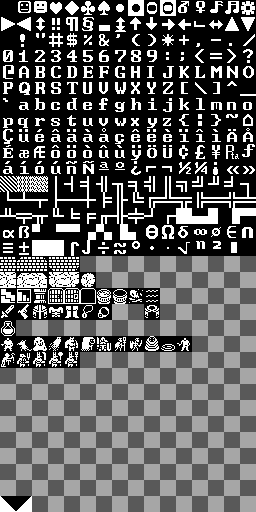
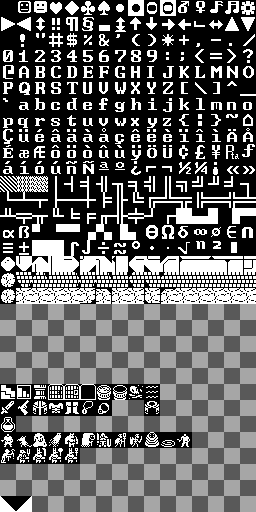
Added support for walls having different symbols depending on surrounding.

Changed region(s): [[0.0, 0.5, 1.0, 0.7188], [0.0, 0.75, 0.75, 0.9062]]

diff --git a/terrain.py b/terrain.py
@@ -1,4 +1,6 @@
 import colors
+import geometry as geo
+import direction
 import symbol
 import gamepiece
 
@@ -18,19 +20,34 @@ class Terrain(gamepiece.GamePiece):
         return True
 
 
-class Wall(Terrain):
+class Wall (Terrain):
     def __init__(self):
         super(Wall, self).__init__()
         self._color_fg = colors.WALL_FG
-        self._color_bg = colors.WALL_BG
+        self._color_bg = colors.DB_LOULOU
         self._symbol = symbol.DUNGEON_WALLS_ROW
 
     @staticmethod
     def is_solid():
         return True
 
+    @property
+    def symbol(self):
+        neighbours_mask = 0
+        for index, neighbour in enumerate(self._get_neighbour_terrains()):
+            if(isinstance(neighbour, Wall) or isinstance(neighbour, Door)):
+                neighbours_mask |= 2 ** index
+        return self._symbol + neighbours_mask
+
     def is_transparent(self):
         return False
+
+    def _get_neighbour_terrains(self):
+        tiles =\
+            [self.dungeon_level.
+             get_tile_or_unknown(geo.add_2d(offset, self.position))
+             for offset in direction.AXIS_DIRECTIONS]
+        return [tile.get_terrain() for tile in tiles]
 
 
 class Floor(Terrain):

diff --git a/symbol.py b/symbol.py
@@ -1,13 +1,16 @@
 ROW_LENGTH = 16
-CUSTOM_PART = 16 * ROW_LENGTH
+WALL_PART = 16 * ROW_LENGTH
+FEATURE_PART = WALL_PART + 8 * ROW_LENGTH
 
-DUNGEON_WALLS_ROW = CUSTOM_PART
-CAVE_WALLS_ROW = CUSTOM_PART + ROW_LENGTH * 1
-DUNGEON_FEATURE_ROW = CUSTOM_PART + ROW_LENGTH * 2
-EQUIPMENT_ITEMS_ROW = CUSTOM_PART + ROW_LENGTH * 3
-USABLE_ITEMS_ROW = CUSTOM_PART + ROW_LENGTH * 4
-DUNGEON_ENTITIES_ROW = CUSTOM_PART + ROW_LENGTH * 5
-TOMB_ENTITIES_ROW = CUSTOM_PART + ROW_LENGTH * 6
+TEST_WALLS_ROW = WALL_PART
+DUNGEON_WALLS_ROW = WALL_PART + ROW_LENGTH * 1
+CAVE_WALLS_ROW = WALL_PART + ROW_LENGTH * 2
+
+DUNGEON_FEATURE_ROW = FEATURE_PART
+EQUIPMENT_ITEMS_ROW = FEATURE_PART + ROW_LENGTH * 1
+USABLE_ITEMS_ROW = FEATURE_PART + ROW_LENGTH * 2
+DUNGEON_ENTITIES_ROW = FEATURE_PART + ROW_LENGTH * 3
+TOMB_ENTITIES_ROW = FEATURE_PART + ROW_LENGTH * 4
 
 CENTER_DOT = 15 * ROW_LENGTH + 10
 

diff --git a/direction.py b/direction.py
@@ -2,8 +2,8 @@ import rng
 
 CENTER = (0, 0)
 
-UP = (0, 1)
-DOWN = (0, -1)
+UP = (0, -1)
+DOWN = (0, 1)
 RIGHT = (1, 0)
 LEFT = (-1, 0)
 
@@ -22,9 +22,9 @@ DIRECTIONS = [UP,
               UP_LEFT]
 
 AXIS_DIRECTIONS = [UP,
-                   RIGHT,
                    DOWN,
-                   LEFT]
+                   LEFT,
+                   RIGHT]
 
 DIAGONAL_DIRECTIONS = [UP_RIGHT,
                        DOWN_RIGHT,
